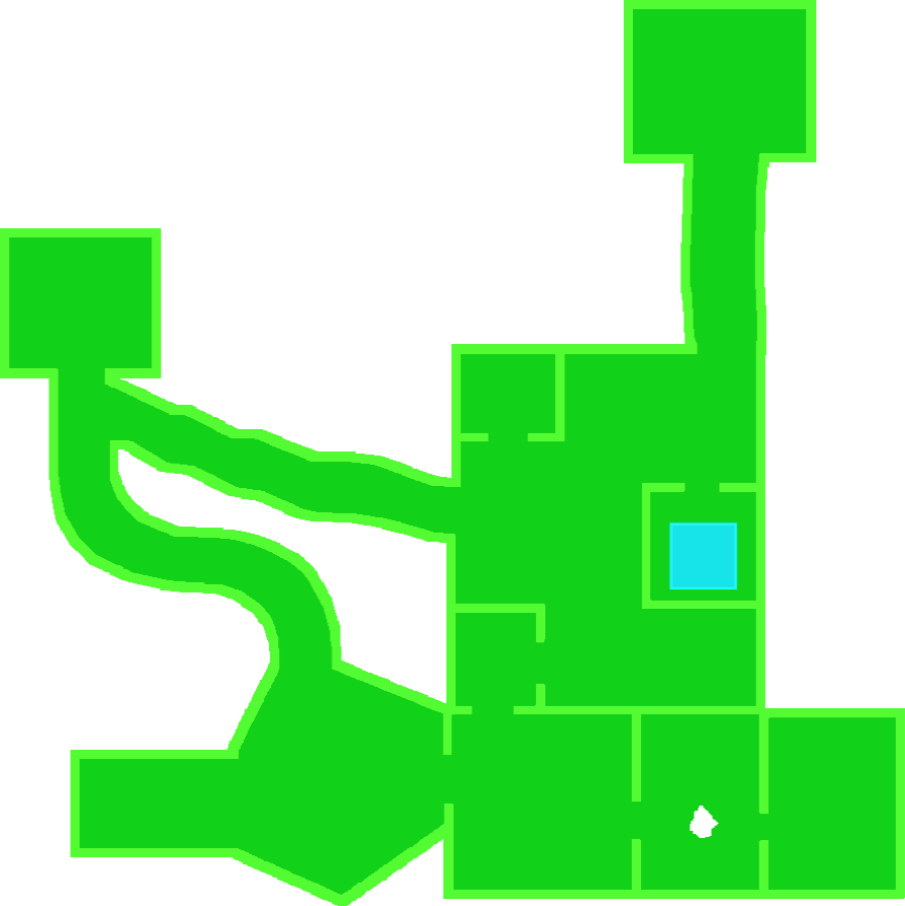
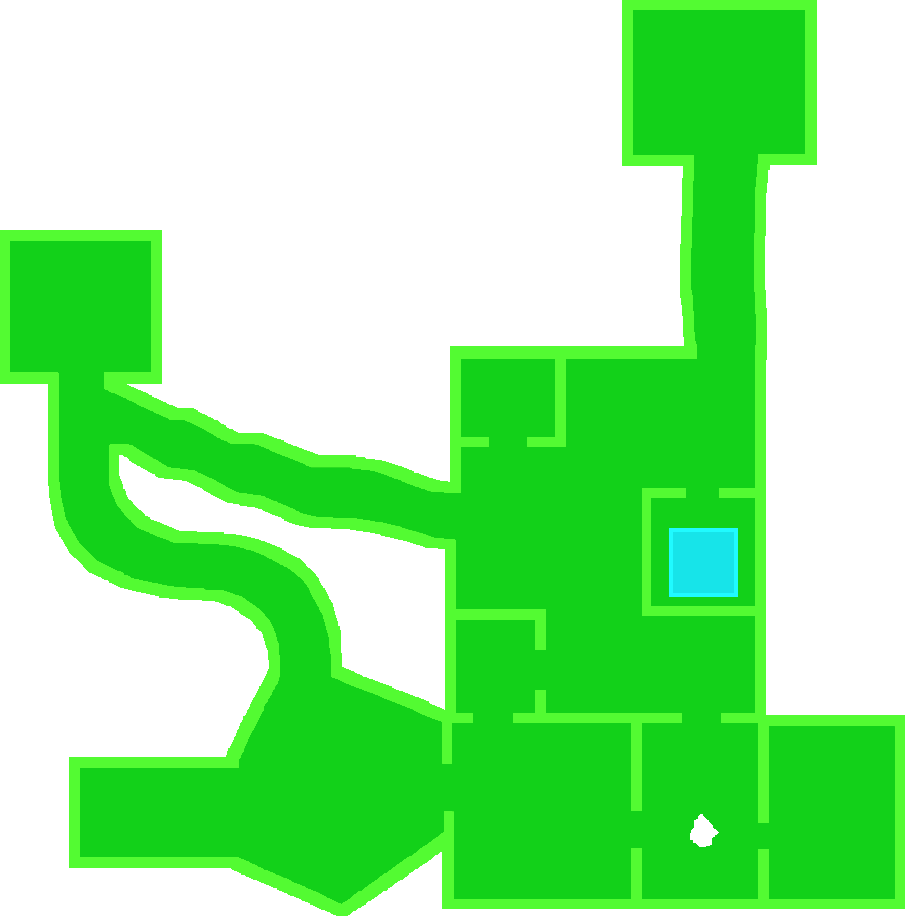
マップ少し変更

diff --git a/THIEF/Src/Object/Component/PlayerController/Map/MapInfo.cpp b/THIEF/Src/Object/Component/PlayerController/Map/MapInfo.cpp
@@ -6,6 +6,6 @@ namespace MapTable
 	{
 		{ STAGE_NUM::STAGE_1,	{"Data/Image/GameScene/Map.png"	,843,1024,610,982}},
 		{ STAGE_NUM::STAGE_2,	{"Data/Image/GameScene/Map2.png" ,938,719,868,599 }},
-		{ STAGE_NUM::STAGE_3,	{"Data/Image/GameScene/Map3.png" ,905,906,130,811} },
+		{ STAGE_NUM::STAGE_3,	{"Data/Image/GameScene/Map3.png" ,905,916,132,823} },
 	};
 }
